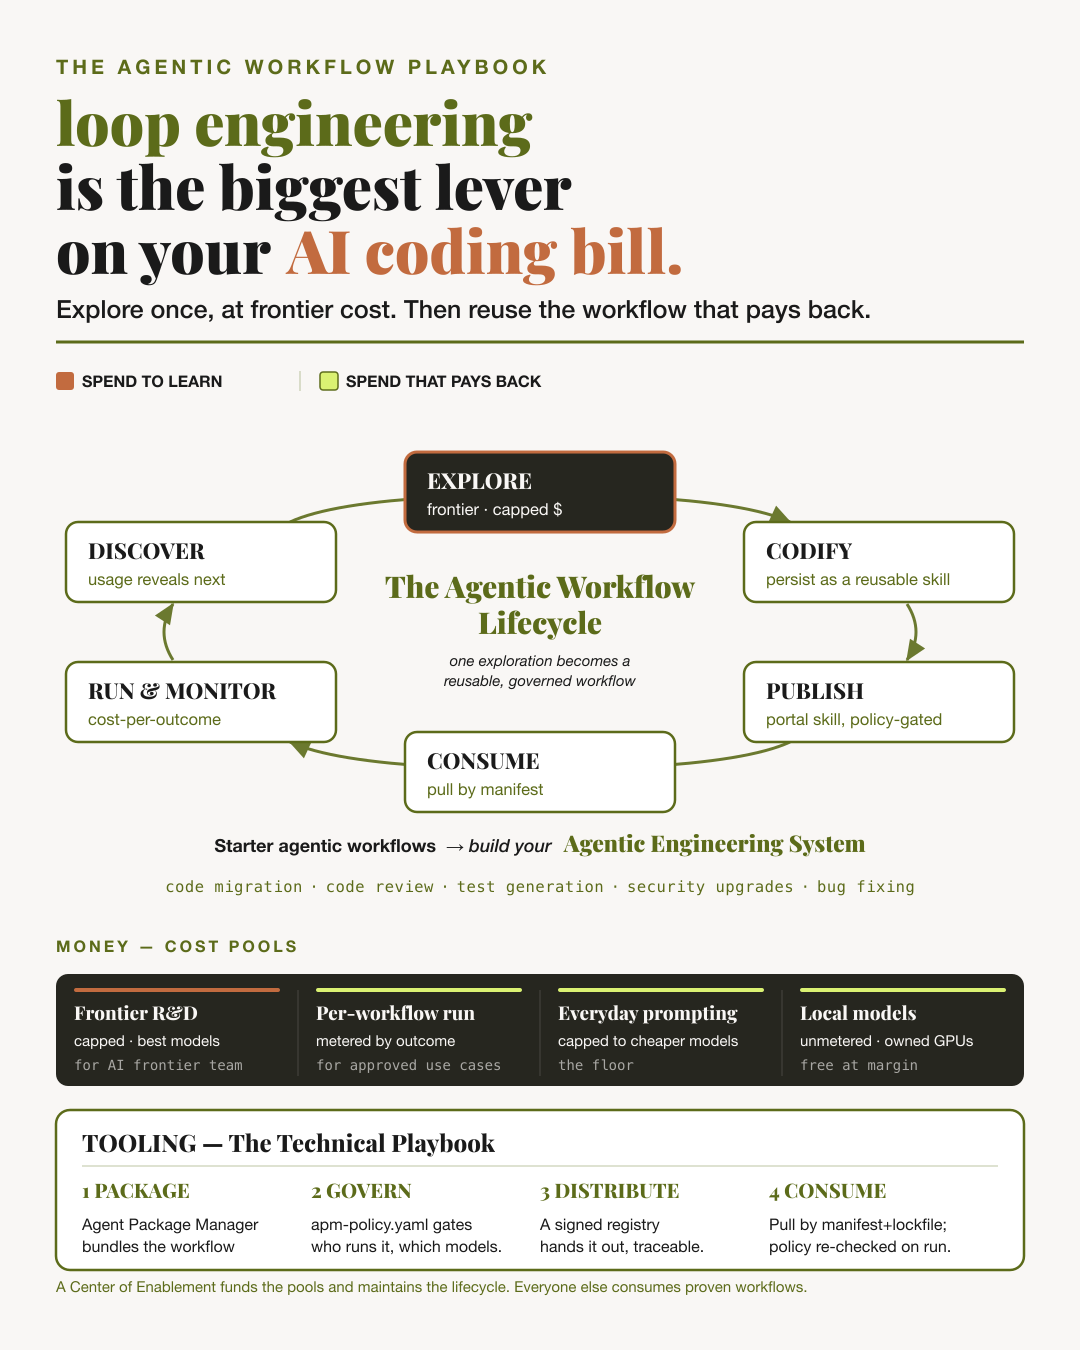
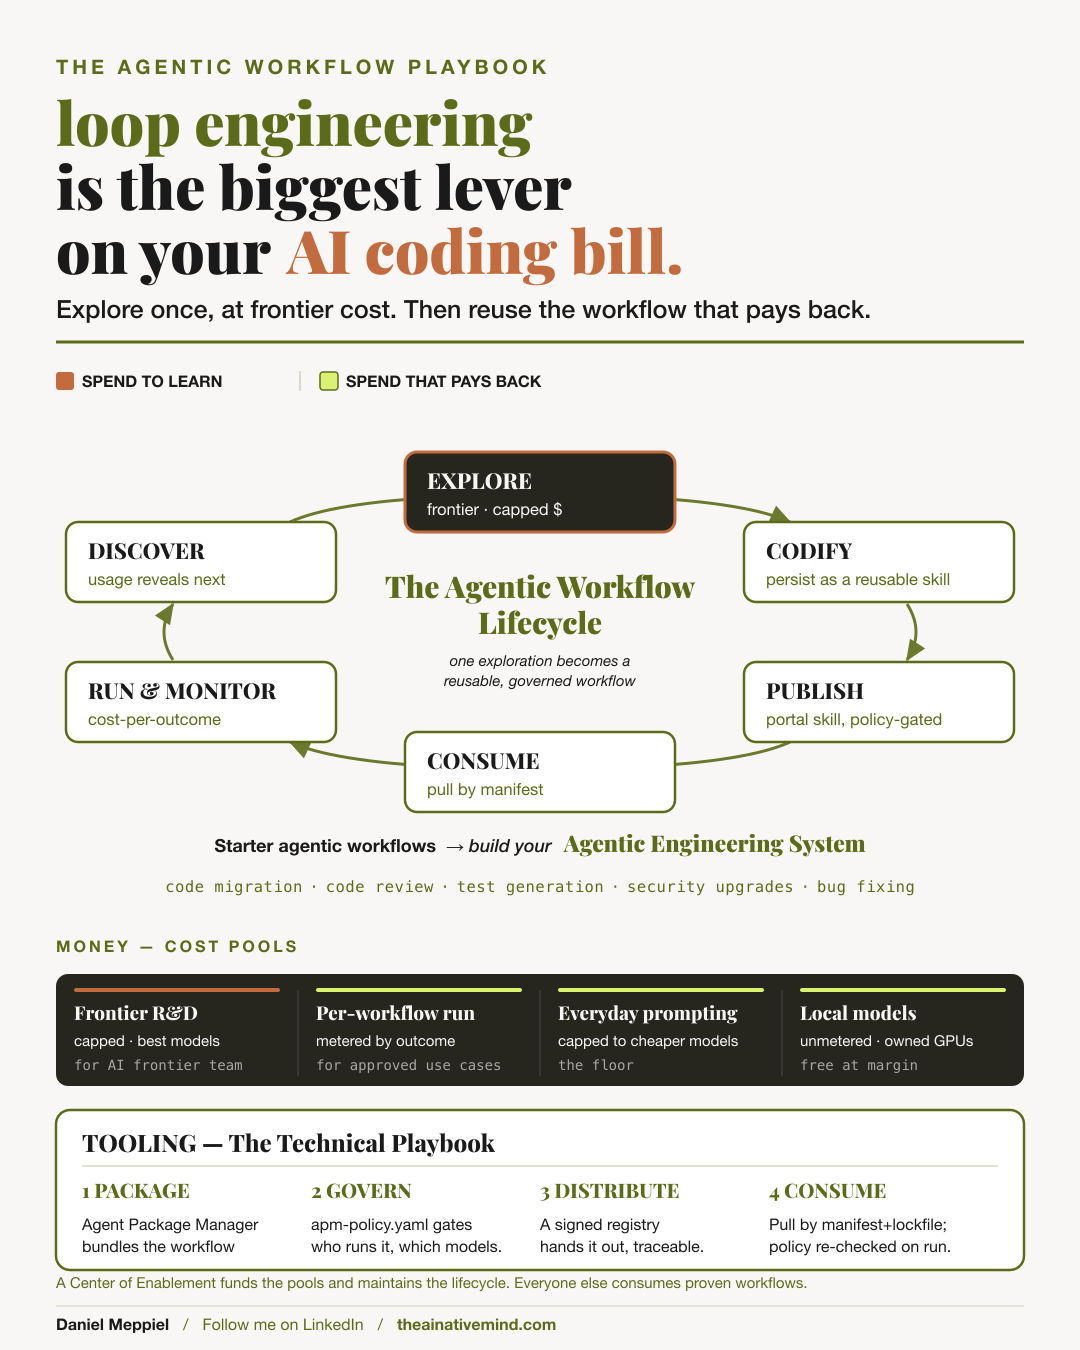
assets: add author attribution to agentic engineering system playbook
Footer now credits Daniel Meppiel with a LinkedIn follow prompt and
theainativemind.com, separated from the operating-model note by a rule.

Changed region(s): [[0.0611, 0.9333, 0.7333, 0.9956]]

diff --git a/assets/infographics/agentic-engineering-system-playbook.render.py b/assets/infographics/agentic-engineering-system-playbook.render.py
@@ -121,7 +121,9 @@ for i,(num,name,l1,l2) in enumerate(steps):
     add(f'<text x="{cx0:.0f}" y="{topy+56:.0f}" font-family="{BODY}" font-size="16" fill="{INK}">{l2}</text>')
 
 # ===== FOOTER =====
-add(f'<text x="{M}" y="1292" font-family="{BODY}" font-size="15" fill="{OLIVE}">A Center of Enablement funds the pools and maintains the lifecycle. Everyone else consumes proven workflows.</text>')
+add(f'<text x="{M}" y="1288" font-family="{BODY}" font-size="15" fill="{OLIVE}">A Center of Enablement funds the pools and maintains the lifecycle. Everyone else consumes proven workflows.</text>')
+add(f'<line x1="{M}" y1="1306" x2="{W-M}" y2="1306" stroke="{OLIVE}" stroke-width="1" opacity="0.28"/>')
+add(f'<text x="{M}" y="1330" font-family="{BODY}" font-size="16" fill="{OLIVE}"><tspan font-weight="700" fill="{INK}">Daniel Meppiel</tspan><tspan dx="14" opacity="0.5">/</tspan><tspan dx="14">Follow me on LinkedIn</tspan><tspan dx="14" opacity="0.5">/</tspan><tspan dx="14" font-weight="700">theainativemind.com</tspan></text>')
 add('</svg>')
 open("agentic-engineering-system-playbook.svg","w").write("\n".join(svg))
 print("ok",len(svg))
